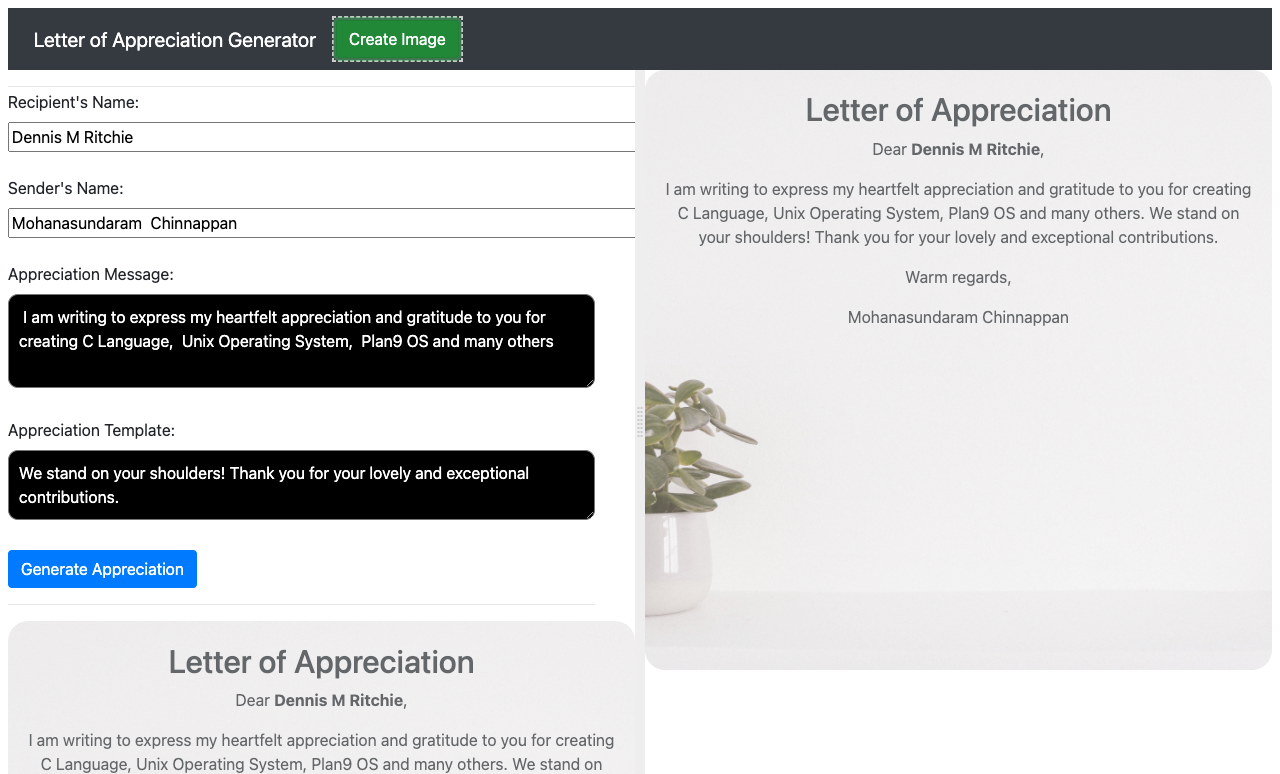
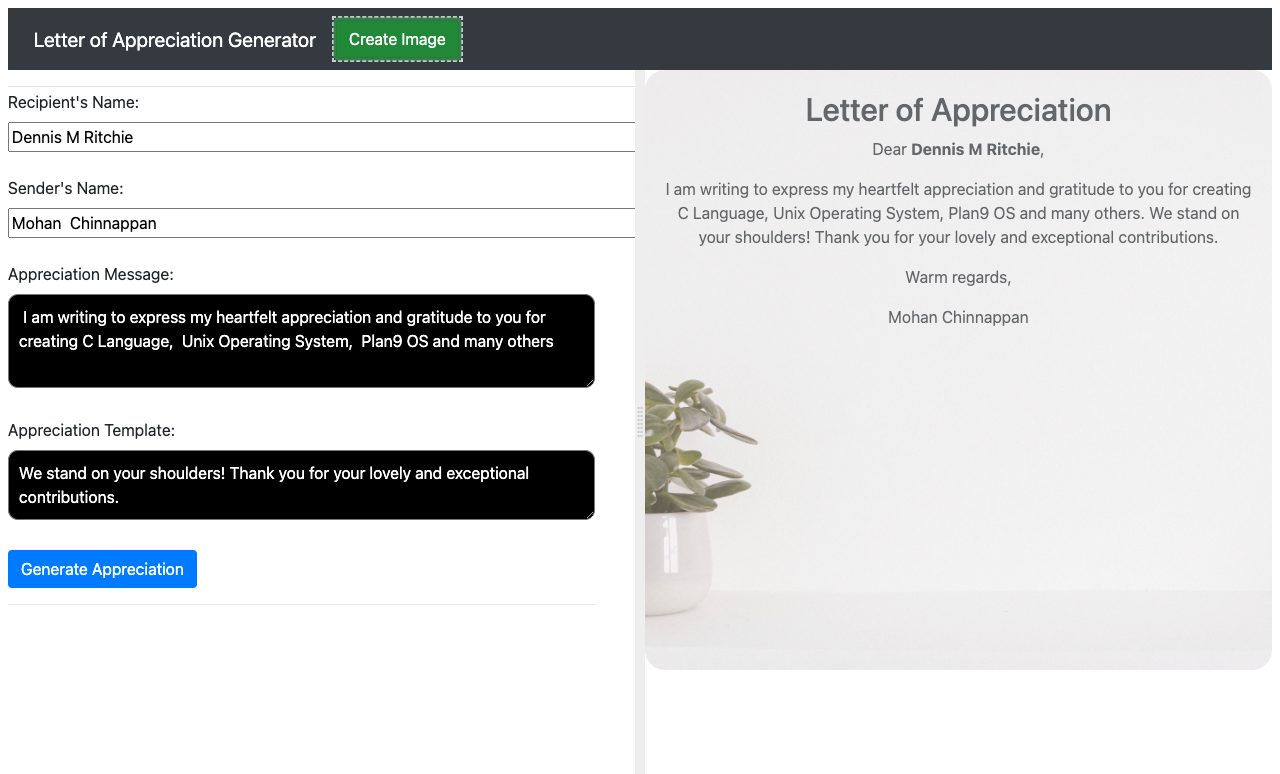
sf added

Changed region(s): [[0.0312, 0.8372, 0.4688, 1.0], [0.6562, 0.4031, 0.8438, 0.4341], [0.0312, 0.2791, 0.1875, 0.3101]]

diff --git a/tests/test-1.spec.ts b/tests/test-1.spec.ts
@@ -40,17 +40,32 @@ test("ThankYouNew", async ({ page }) => {
   const greetings = [
     {
       to: "Dennis M Ritchie",
-      from: "Mohanasundaram  Chinnappan",
+      from: "Mohan  Chinnappan",
       msg: " I am writing to express my heartfelt appreciation and gratitude to you for creating C Language,  Unix Operating System,  Plan9 OS and many others",
       template: "We stand on your shoulders! Thank you for your lovely and exceptional contributions."
     },
 
     {
       to: "Ken Thompson",
-      from: "Mohanasundaram  Chinnappan",
+      from: "Mohan  Chinnappan",
       msg: " I am writing to express my heartfelt appreciation and gratitude to you for creating B Language,  Unix Operating System, ed, grep, UTF-8, Go Language and many others",
       template: "We stand on your shoulders! Thank you for your lovely and exceptional contributions."
     },
+
+    {
+      to: "Elon Musk",
+      from: "Mohan  Chinnappan",
+      msg: " I am writing to express my heartfelt appreciation and gratitude to you for efforts in Electric Vehicle Development, Rocket Technology" ,
+      template: "We stand on your shoulders! Thank you for your lovely and exceptional contributions."
+    },
+
+    {
+      to: "Dr. Adbul Kalam",
+      from: "Mohanasundaram  Chinnappan",
+      msg: " I am writing to express my heartfelt appreciation and gratitude to you for efforts in guiding Indians to prepare for the future" ,
+      template: "We stand on your shoulders! Thank you for your lovely and exceptional contributions."
+    },
+
 
   ];
 

diff --git a/tests/test-2.spec.ts b/tests/test-2.spec.ts
@@ -1,0 +1,46 @@
+import { test, expect } from '@playwright/test';
+
+const { promisify } = require('util');
+const exec = promisify(require('child_process').exec);
+const execEnv = { env: { ...process.env, FORCE_COLOR: "0" } };
+
+
+const sfLogin = async (orgName, page) => {
+  const cmd = `sf org:open -o ${orgName} --path ${page} --url-only --json`;
+  console.log(cmd);
+  let sfOutput = await exec(cmd, execEnv);
+  const results = JSON.parse(sfOutput.stdout.trim());
+  return results;
+}
+
+const sfLoginData = {
+  orgName: "mohan.chinnappan.n.ea10@gmail.com" ,
+  page: '/lightning/page/home' 
+}
+
+const performSfLogin = async page => {
+  const results = await sfLogin(sfLoginData.orgName, sfLoginData.page);
+  const url = results.result.url;
+  console.log(url);
+  await page.goto(url);
+}
+
+test('SFLogin', async ({ page }) => {
+  await performSfLogin(page);
+
+});
+
+const addAccount = async (page, data) => {
+  await page.getByRole('link', { name: 'Accounts' }).click();
+  await page.getByRole('button', { name: 'New' }).click();
+  await page.getByLabel('*Account Name').fill(data.name);
+  await page.getByLabel('Account Number').fill(data.number);
+  await page.getByRole('button', { name: 'Save', exact: true }).click();
+}
+
+test('AddAccount', async ({ page }) => {
+  await performSfLogin(page);
+  await addAccount(page, {name: 'MCTest2', number: "22222"})
+});
+
+
